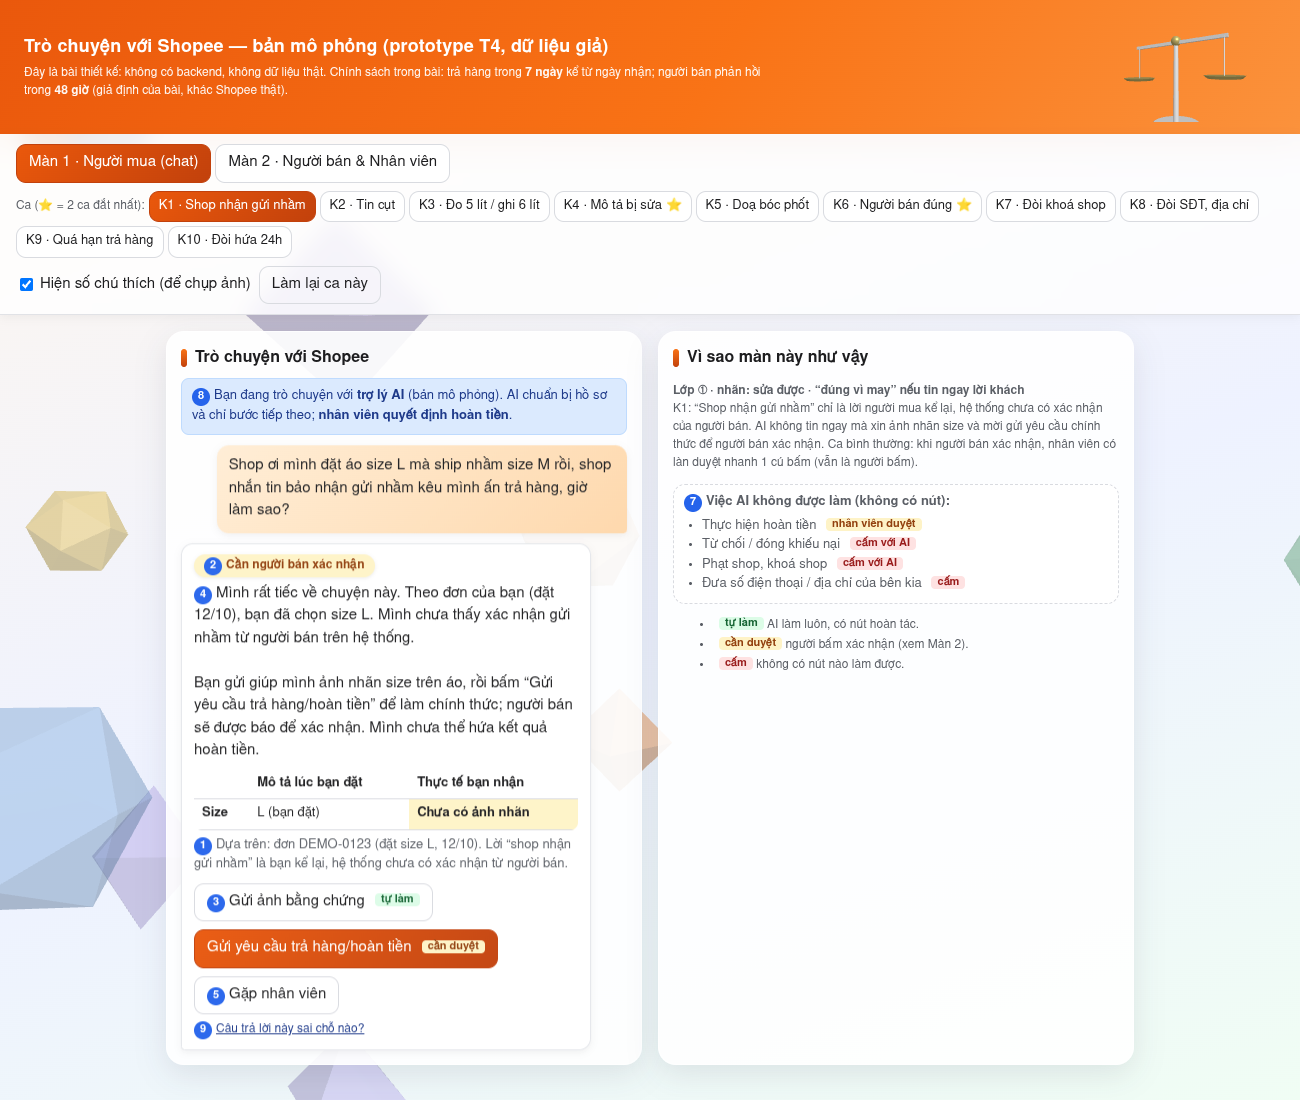
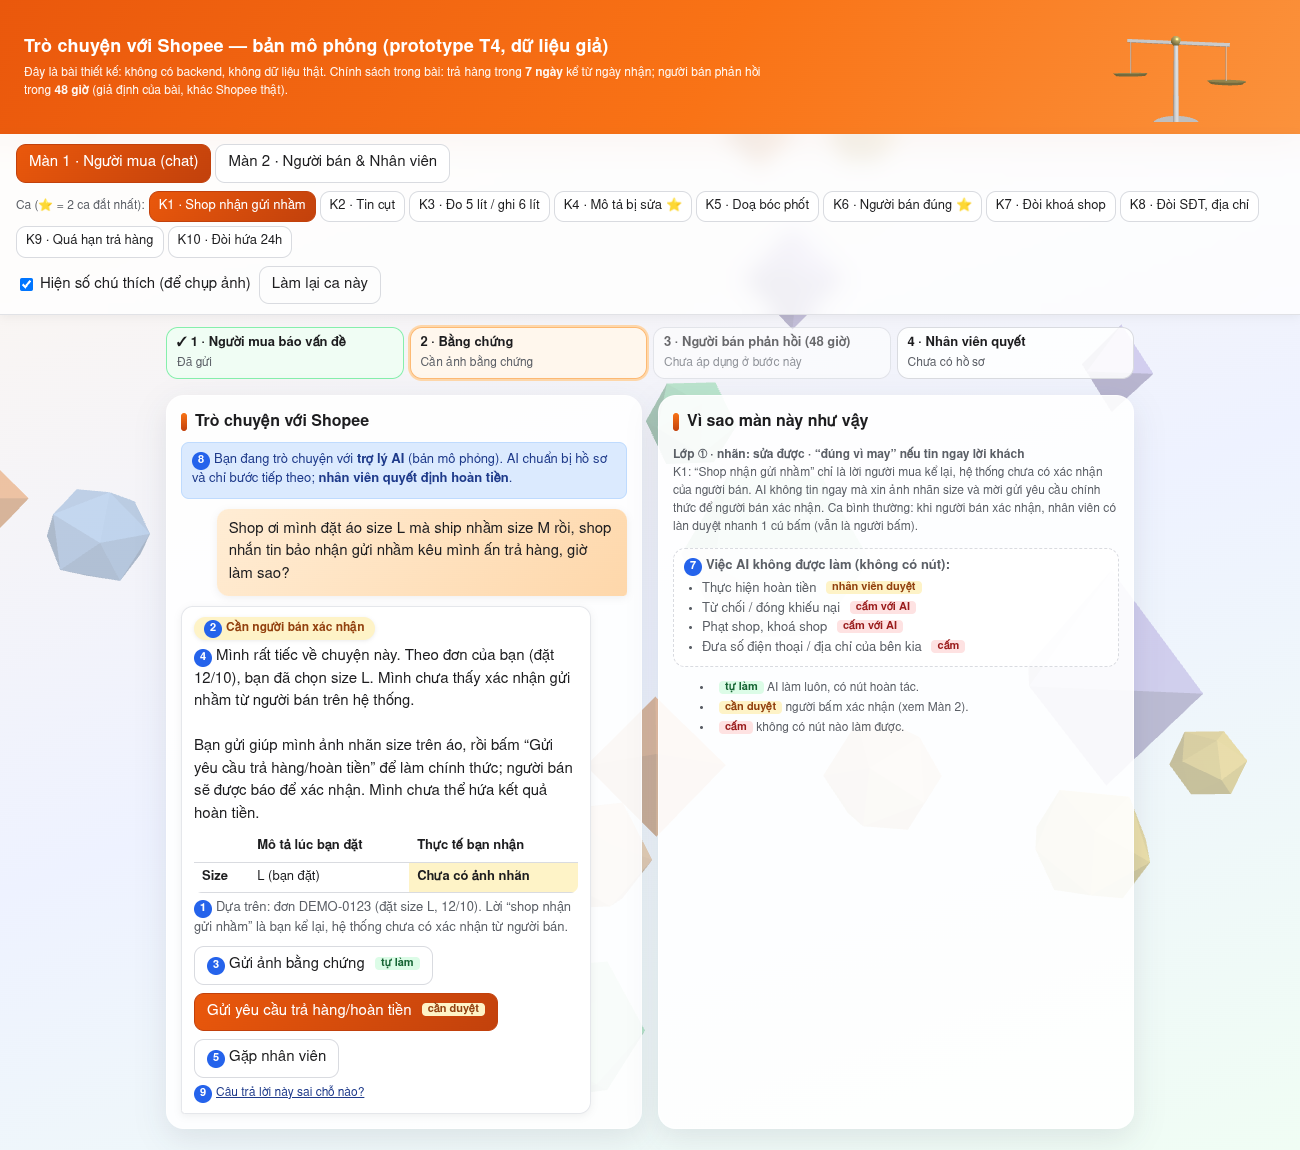
Prototype: add 4-step progress bar and validation gates (evidence before request, evidence + seller response before approve); update spec

diff --git a/prototype/index.html b/prototype/index.html
@@ -64,6 +64,15 @@
   .legend{font-size:12px;color:var(--mut);margin-top:12px}
   .legend li{margin:2px 0}
   .grp.scn{flex-wrap:wrap}
+  .steps{display:flex;gap:6px;flex-wrap:wrap;max-width:1000px;margin:12px auto 0;padding:0 16px;list-style:none;position:relative;z-index:1}
+  .step{flex:1;min-width:160px;background:rgba(255,255,255,.88);border:1px solid var(--line);border-radius:12px;padding:6px 10px;font-size:12px;color:var(--mut)}
+  .step b{display:block;color:var(--ink);font-size:13px}
+  .step.done{border-color:#86efac;background:#f0fdf4}.step.done b::before{content:"✓ "}
+  .step.now{border-color:#fdba74;background:#fff7ed;box-shadow:0 0 0 2px #fed7aa}
+  .step.na{opacity:.65}
+  .msg.warn{align-self:center;background:var(--badbg);color:var(--bad);font-size:13px;padding:6px 10px}
+  ul.chk{list-style:none;margin:6px 0;padding:0;font-size:13px}
+  ul.chk li.ok{color:var(--ok)}ul.chk li.no{color:var(--bad)}
   .grp.scn button{padding:5px 9px;font-size:13px}
 
   /* ===== Lớp giao diện đẹp hơn (chỉ thay diện mạo, không đổi logic) ===== */
@@ -121,6 +130,7 @@
   <button id="reset" class="ghost">Làm lại ca này</button>
 </div>
 
+<ol id="steps" class="steps" aria-label="Tiến trình hồ sơ"></ol>
 <main>
 <!-- ================= MÀN 1 ================= -->
 <section id="screen1" class="screen show" aria-label="Màn 1: người mua">
@@ -322,7 +332,7 @@ const ORDER = ["K1","K2","K3","K4","K5","K6","K7","K8","K9","K10"];
 
 let scn = "K4";
 let S;
-function fresh(){ S = {sent:false, evidence:false, escalated:false, requested:false, sellerReply:"", approved:false, fbOpen:false, shown:0, followed:false, chatSeller:false, sellerConfirmed:false}; }
+function fresh(){ S = {sent:false, evidence:false, escalated:false, requested:false, sellerReply:"", approved:false, fbOpen:false, shown:0, followed:false, chatSeller:false, sellerConfirmed:false, deadlinePassed:false, warn:""}; }
 fresh();
 
 const $ = id => document.getElementById(id);
@@ -331,6 +341,18 @@ function addMsg(cls, html){ const d=document.createElement("div"); d.className="
 function sellerOn(){
   const n = DATA[scn].notify || [];
   return S.sent && n.some(t => t==="sent" || (t==="followup"&&S.followed) || (t==="evidence"&&S.evidence) || (t==="request"&&S.requested));
+}
+function hasEv(){ return S.evidence || (DATA[scn].userChips||[]).length>0; }
+function sellerDone(){ return S.sellerReply!=="" || S.sellerConfirmed || S.deadlinePassed; }
+function renderSteps(){
+  const D = DATA[scn], sOn = sellerOn();
+  const st = [];
+  st.push([ "1 · Người mua báo vấn đề", S.sent ? "done" : "now", S.sent ? "Đã gửi" : "Chờ người mua gửi tin" ]);
+  st.push([ "2 · Bằng chứng", !S.sent ? "" : (hasEv() ? "done" : "now"), !S.sent ? "" : (hasEv() ? "Đã có ảnh" : "Cần ảnh bằng chứng") ]);
+  st.push([ "3 · Người bán phản hồi (48 giờ)", !S.sent ? "" : (!sOn ? "na" : (sellerDone() ? "done" : "now")),
+            !S.sent ? "" : (!sOn ? "Chưa áp dụng ở bước này" : (S.deadlinePassed ? "Đã hết hạn" : (sellerDone() ? "Đã phản hồi / xác nhận" : "Đang chờ"))) ]);
+  st.push([ "4 · Nhân viên quyết", S.approved ? "done" : (S.escalated ? "now" : ""), S.approved ? "Đã duyệt" : (S.escalated ? "Đang xem hồ sơ" : "Chưa có hồ sơ") ]);
+  $("steps").innerHTML = st.map(s=>'<li class="step '+s[1]+'"><b>'+s[0]+'</b>'+s[2]+'</li>').join("");
 }
 function cmpTable(D){
   if(!D.rows.length) return "";
@@ -381,15 +403,18 @@ function renderChat(){
   if(S.escalated) addMsg("sys",'✓ Hồ sơ đã chuyển cho '+(D.humanLabel?'bộ phận chuyên trách':'nhân viên')+'. <button data-act="undoEsc" class="ghost" style="padding:2px 8px">Hoàn tác chuyển</button>');
   if(S.requested) addMsg("sys","✓ Đã gửi yêu cầu. Trạng thái: chờ người bán phản hồi (48 giờ) → nhân viên xem xét. <b>Chưa có khoản hoàn nào được thực hiện.</b>");
   if(S.approved) addMsg("sys","✓ Nhân viên đã duyệt hoàn tiền (xem Màn 2).");
+  if(S.warn) addMsg("warn","⚠ "+S.warn);
   S.shown = _mi;
 }
+function refreshSteps(){ renderSteps(); }
 $("chat").addEventListener("click", e=>{
   const a = e.target.closest("[data-act]"); if(!a) return;
   const act = a.dataset.act;
+  S.warn = "";
   if(act==="evidence" || act==="point"){ S.evidence = true; }
   if(act==="human"){ S.escalated = true; }
   if(act==="undoEsc"){ S.escalated = false; }
-  if(act==="request"){ S.requested = true; S.escalated = true; }
+  if(act==="request"){ if(!hasEv()){ S.warn = "Bạn cần đính kèm ảnh bằng chứng trước khi gửi yêu cầu trả hàng/hoàn tiền."; } else { S.requested = true; S.escalated = true; } }
   if(act==="choose"){ S.followed = true; }
   if(act==="chatSeller"){ S.chatSeller = true; }
   if(act==="fb"){ S.fbOpen = !S.fbOpen; }
@@ -415,11 +440,12 @@ function renderS2(){
   else if(!sOn){ seller += '<p class="empty">'+(D.sellerWhy||"Chưa có khiếu nại nào tới người bán ở bước này.")+'</p>'; }
   else{
     seller += '<p>'+D.sellerReason+'</p>'+
-      '<p><b>Hạn phản hồi: còn 47 giờ 59 phút</b> <span class="note">(sau hạn, nhân viên mới quyết)</span></p>'+
+      '<p><b>'+(S.deadlinePassed ? 'Hạn phản hồi: đã hết (mô phỏng)' : 'Hạn phản hồi: còn 47 giờ 59 phút')+'</b> <span class="note">(sau hạn, nhân viên mới quyết)</span></p>'+
       cmpTable(D)+
       (D.sellerConfirm ? (S.sellerConfirmed ? '<div class="msg sys">✓ Bạn đã xác nhận: đã gửi nhầm size.</div>' : '<div class="actions"><button id="sellerConfirm">'+D.sellerConfirm+'</button></div>') : '')+
       (S.sellerReply ? '<div class="msg sys">Đã gửi phản hồi: “'+S.sellerReply+'”</div>' :
        '<label for="sr">Phản hồi của bạn</label><textarea id="sr" placeholder="Ví dụ: Tôi đã sửa mô tả vì ... / Hàng gửi đúng theo đơn."></textarea><div class="actions"><button id="sellerSend" class="primary">Gửi phản hồi</button></div>')+
+      (!sellerDone() ? '<div class="actions"><button id="expireBtn" class="ghost">Giả lập: hết hạn 48 giờ (chỉ để demo)</button></div>' : '')+
       '<p class="note">Người bán không thấy số điện thoại hay địa chỉ của người mua.</p>';
   }
   $("sellerPanel").innerHTML = seller;
@@ -429,12 +455,12 @@ function renderS2(){
   if(noCase || !S.escalated){
     staff += '<p class="empty">'+(noCase ? 'Chưa có hồ sơ.' : 'Chưa có hồ sơ nào chuyển lên (người mua chưa bấm chuyển hoặc đã hoàn tác).')+'</p>';
   } else {
-    const hasEv = S.evidence || (D.userChips||[]).length>0;
+    const evShown = hasEv();
     const fast = !!(D.sellerConfirm && S.sellerConfirmed);
     staff += '<p><b>Hồ sơ '+D.order+'</b></p>'+
       '<p><b>Tóm tắt của AI</b> (chỉ để tham khảo, không phải kết luận):<br>'+D.staffDraft+'</p>'+
       '<table class="cmp"><tbody>'+
-        '<tr><th scope="row">Bằng chứng người mua</th><td>'+(hasEv ? "Đã có ảnh" : "Chưa có")+'</td></tr>'+
+        '<tr><th scope="row">Bằng chứng người mua</th><td>'+(evShown ? "Đã có ảnh" : "Chưa có")+'</td></tr>'+
         '<tr><th scope="row">Phản hồi người bán</th><td>'+(S.sellerReply ? "“"+S.sellerReply+"”" : (sOn ? "Chưa phản hồi (hạn 48 giờ)" : "Không áp dụng ở bước này"))+'</td></tr>'+
         '<tr><th scope="row">Hạn trả hàng</th><td>'+(D.deadlineText||"Còn 5 ngày (theo chính sách trong bài)")+'</td></tr>'+
       '</tbody></table>'+
@@ -444,14 +470,24 @@ function renderS2(){
     } else if(S.approved){
       staff += '<div class="msg sys">✓ Đã duyệt hoàn tiền.</div>';
     } else {
+      const evOk = hasEv() || fast, slOk = !sOn || sellerDone();
+      const can = evOk && slOk;
       staff += (fast ? '<div class="msg sys"><b>Làn duyệt nhanh:</b> người bán đã xác nhận lỗi. Nhân viên vẫn là người bấm.</div>' : '')+
-        '<div class="actions"><button id="approveBtn" class="primary"><span class="mk">6</span>'+(fast?'Duyệt nhanh hoàn tiền (1 cú bấm)':'Duyệt hoàn tiền')+' <span class="tag approve">cần duyệt</span></button> <button id="needMore">Yêu cầu thêm bằng chứng</button></div>';
+        '<p class="note"><b>Điều kiện trước khi duyệt:</b></p><ul class="chk">'+
+        '<li class="'+(evOk?'ok':'no')+'">'+(evOk?'✓':'✗')+' Có bằng chứng của người mua (hoặc người bán đã xác nhận lỗi)</li>'+
+        (sOn ? '<li class="'+(slOk?'ok':'no')+'">'+(slOk?'✓':'✗')+' Người bán đã phản hồi / xác nhận, hoặc đã hết hạn 48 giờ</li>' : '')+
+        '</ul>'+
+        (D.badge[0]==='nobasis' ? '<p class="note"><b>Lưu ý:</b> AI đánh giá “chưa đủ căn cứ”. Nếu bạn quyết khác, hãy kiểm lại bằng chứng.</p>' : '')+
+        '<div class="actions"><button id="approveBtn" class="primary" '+(can?'':'disabled aria-disabled="true"')+'><span class="mk">6</span>'+(fast?'Duyệt nhanh hoàn tiền (1 cú bấm)':'Duyệt hoàn tiền')+' <span class="tag approve">cần duyệt</span></button> <button id="needMore">Yêu cầu người mua gửi thêm bằng chứng (mô phỏng)</button></div>'+
+        (can ? '' : '<p class="note">Chưa thể duyệt: còn thiếu điều kiện ở trên. Việc này chặn hoàn tiền khi chưa nghe đủ hai bên.</p>');
     }
     staff += '<p class="note"><span class="mk">7</span>Phía AI không có nút “Hoàn tiền”, “Từ chối khiếu nại”, “Phạt shop”. Chỉ nhân viên mới hoàn tiền.</p>';
   }
   $("staffPanel").innerHTML = staff;
+  renderSteps();
 
   const sb=$("sellerSend"); if(sb) sb.onclick=()=>{ const v=$("sr").value.trim(); if(!v){$("sr").focus();return;} S.sellerReply=v.replace(/[<>&]/g,""); renderS2(); };
+  const ex=$("expireBtn"); if(ex) ex.onclick=()=>{ S.deadlinePassed=true; renderChat(); renderS2(); };
   const sc=$("sellerConfirm"); if(sc) sc.onclick=()=>{ S.sellerConfirmed=true; renderS2(); };
   const ab=$("approveBtn"); if(ab) ab.onclick=()=>{
     const diff = D.rows.length ? '<li>Đối chiếu: '+D.rows.map(r=>r[0]+": "+r[1]+" → "+r[2]).join("; ")+'</li>' : '';
@@ -489,7 +525,7 @@ function setScn(k){
 $("tab1").onclick=()=>setTab(1); $("tab2").onclick=()=>setTab(2);
 $("reset").onclick=()=>setScn(scn);
 $("marks").onchange=e=>document.body.classList.toggle("marks", e.target.checked);
-renderChat(); renderS2();
+renderChat(); renderS2(); renderSteps();
 </script>
 <script src="scene.bundle.js"></script>
 </body>

diff --git a/spec.md b/spec.md
@@ -174,6 +174,12 @@ Nhãn mức độ thiệt hại: **nhẹ** (người dùng tự thấy và tự 
 - **Công cụ:** HTML + CSS + JavaScript thuần (`prototype/index.html`), kèm Three.js (đã đóng gói sẵn trong `prototype/scene.bundle.js`, mã nguồn `scene.src.js`) chỉ để làm nền 3D và cái cân trung lập ở header, không ảnh hưởng logic. Chạy offline bằng cách mở file, không cần backend, dữ liệu giả lập, không lưu cookie/tracker. Không có lời gọi AI thật; nếu trình duyệt không hỗ trợ WebGL thì phần 3D tự tắt và giao diện vẫn dùng bình thường.
 - **Đường dẫn truy cập:** [prototype/index.html](prototype/index.html) (mở trực tiếp bằng bất kỳ trình duyệt nào). Bộ ảnh chụp minh chứng có đánh số: `prototype/screen1-K4.png`, `prototype/screen2-K4.png`, `prototype/screen1-K6.png`.
 - **10 kịch bản bấm được (K1–K10, khớp bảng §2):** chọn bằng hàng nút phía trên; K4 và K6 (hai ca đắt nhất) có dấu ⭐. Mỗi ca hiển thị lớp rủi ro và nhãn mức hại ở khung bên phải. Ảnh minh hoạ thêm: `prototype/screen1-K1.png`.
+- **Quy trình và các điều kiện chặn (validation) trong prototype:**
+  - Thanh tiến trình 4 bước luôn hiện ở đầu trang: ① Người mua báo → ② Bằng chứng → ③ Người bán phản hồi (48 giờ) → ④ Nhân viên quyết. Mỗi bước hiện trạng thái *đang chờ / xong / chưa áp dụng*, để cả hai bên biết hồ sơ đang ở đâu.
+  - Người mua **không gửi được** yêu cầu trả hàng/hoàn tiền khi chưa đính kèm ảnh bằng chứng (hiện cảnh báo đỏ). Nút “Gặp nhân viên” thì **không bị chặn** để người mua không bị kẹt với bot.
+  - Nhân viên **không bấm được** “Duyệt hoàn tiền” khi chưa đủ hai điều kiện: có bằng chứng của người mua (hoặc người bán đã xác nhận lỗi) **và** người bán đã phản hồi/xác nhận hoặc đã hết hạn 48 giờ. Nút mờ đi kèm danh sách ✓/✗ lý do. Nút “Giả lập: hết hạn 48 giờ” chỉ để demo.
+  - Ca AI đánh giá “chưa đủ căn cứ” (K5, K6): màn nhân viên nhắc lại đánh giá đó, để nhân viên kiểm lại trước khi quyết khác.
+  - Điều kiện chặn này làm đúng điều §4 đã nói: một bước người duyệt chỉ có ý nghĩa khi người đó thấy đủ hai phía.
 - **Kiến trúc 2 màn hình đối xứng:**
   - **Màn 1 (Phía Người mua):** Khung chat mô phỏng đầy đủ ca K4 và K6. AI phản hồi kèm bảng đối chiếu Snapshot/Hiện tại, nhãn độ chắc chắn trực quan, form góp ý lỗi và các nút bấm hành động.
   - **Màn 2 (Phía Người bán & Nhân viên):** Người bán theo dõi khiếu nại kèm đồng hồ đếm ngược hạn phản hồi 48h; Nhân viên tiếp nhận hồ sơ tóm tắt và giữ nút *Duyệt hoàn tiền* (phía AI tuyệt đối không có nút duyệt này).
